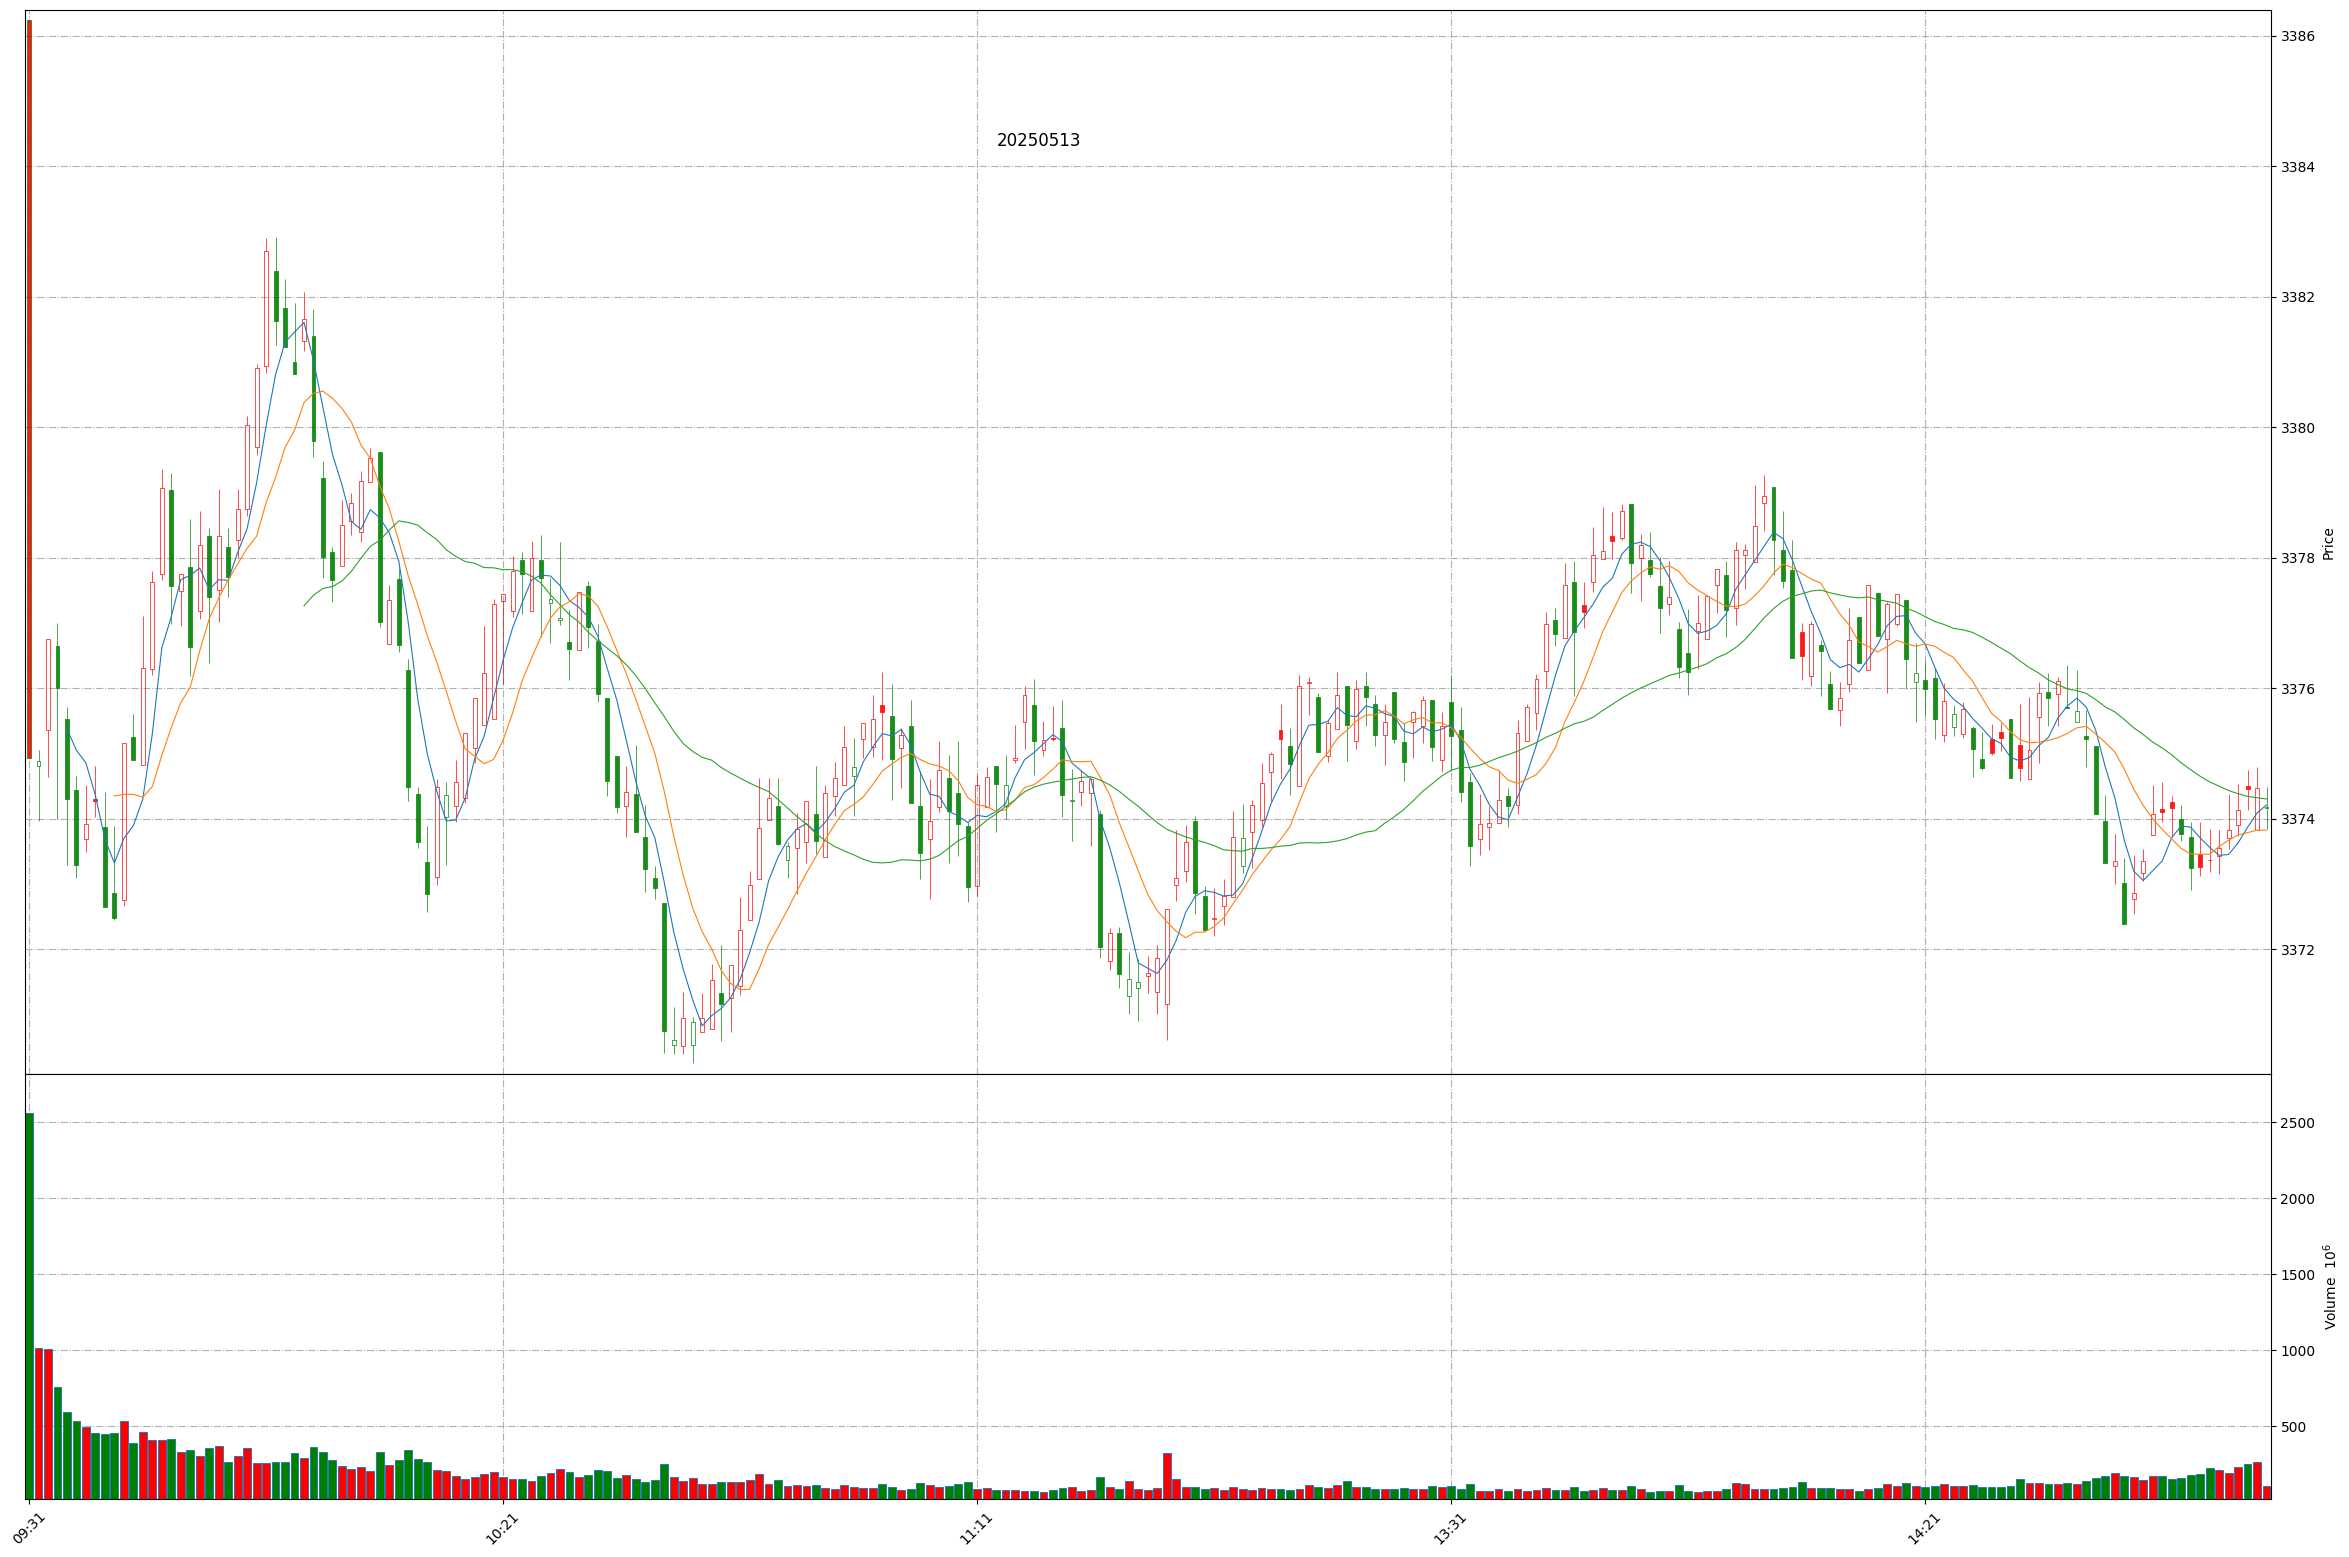
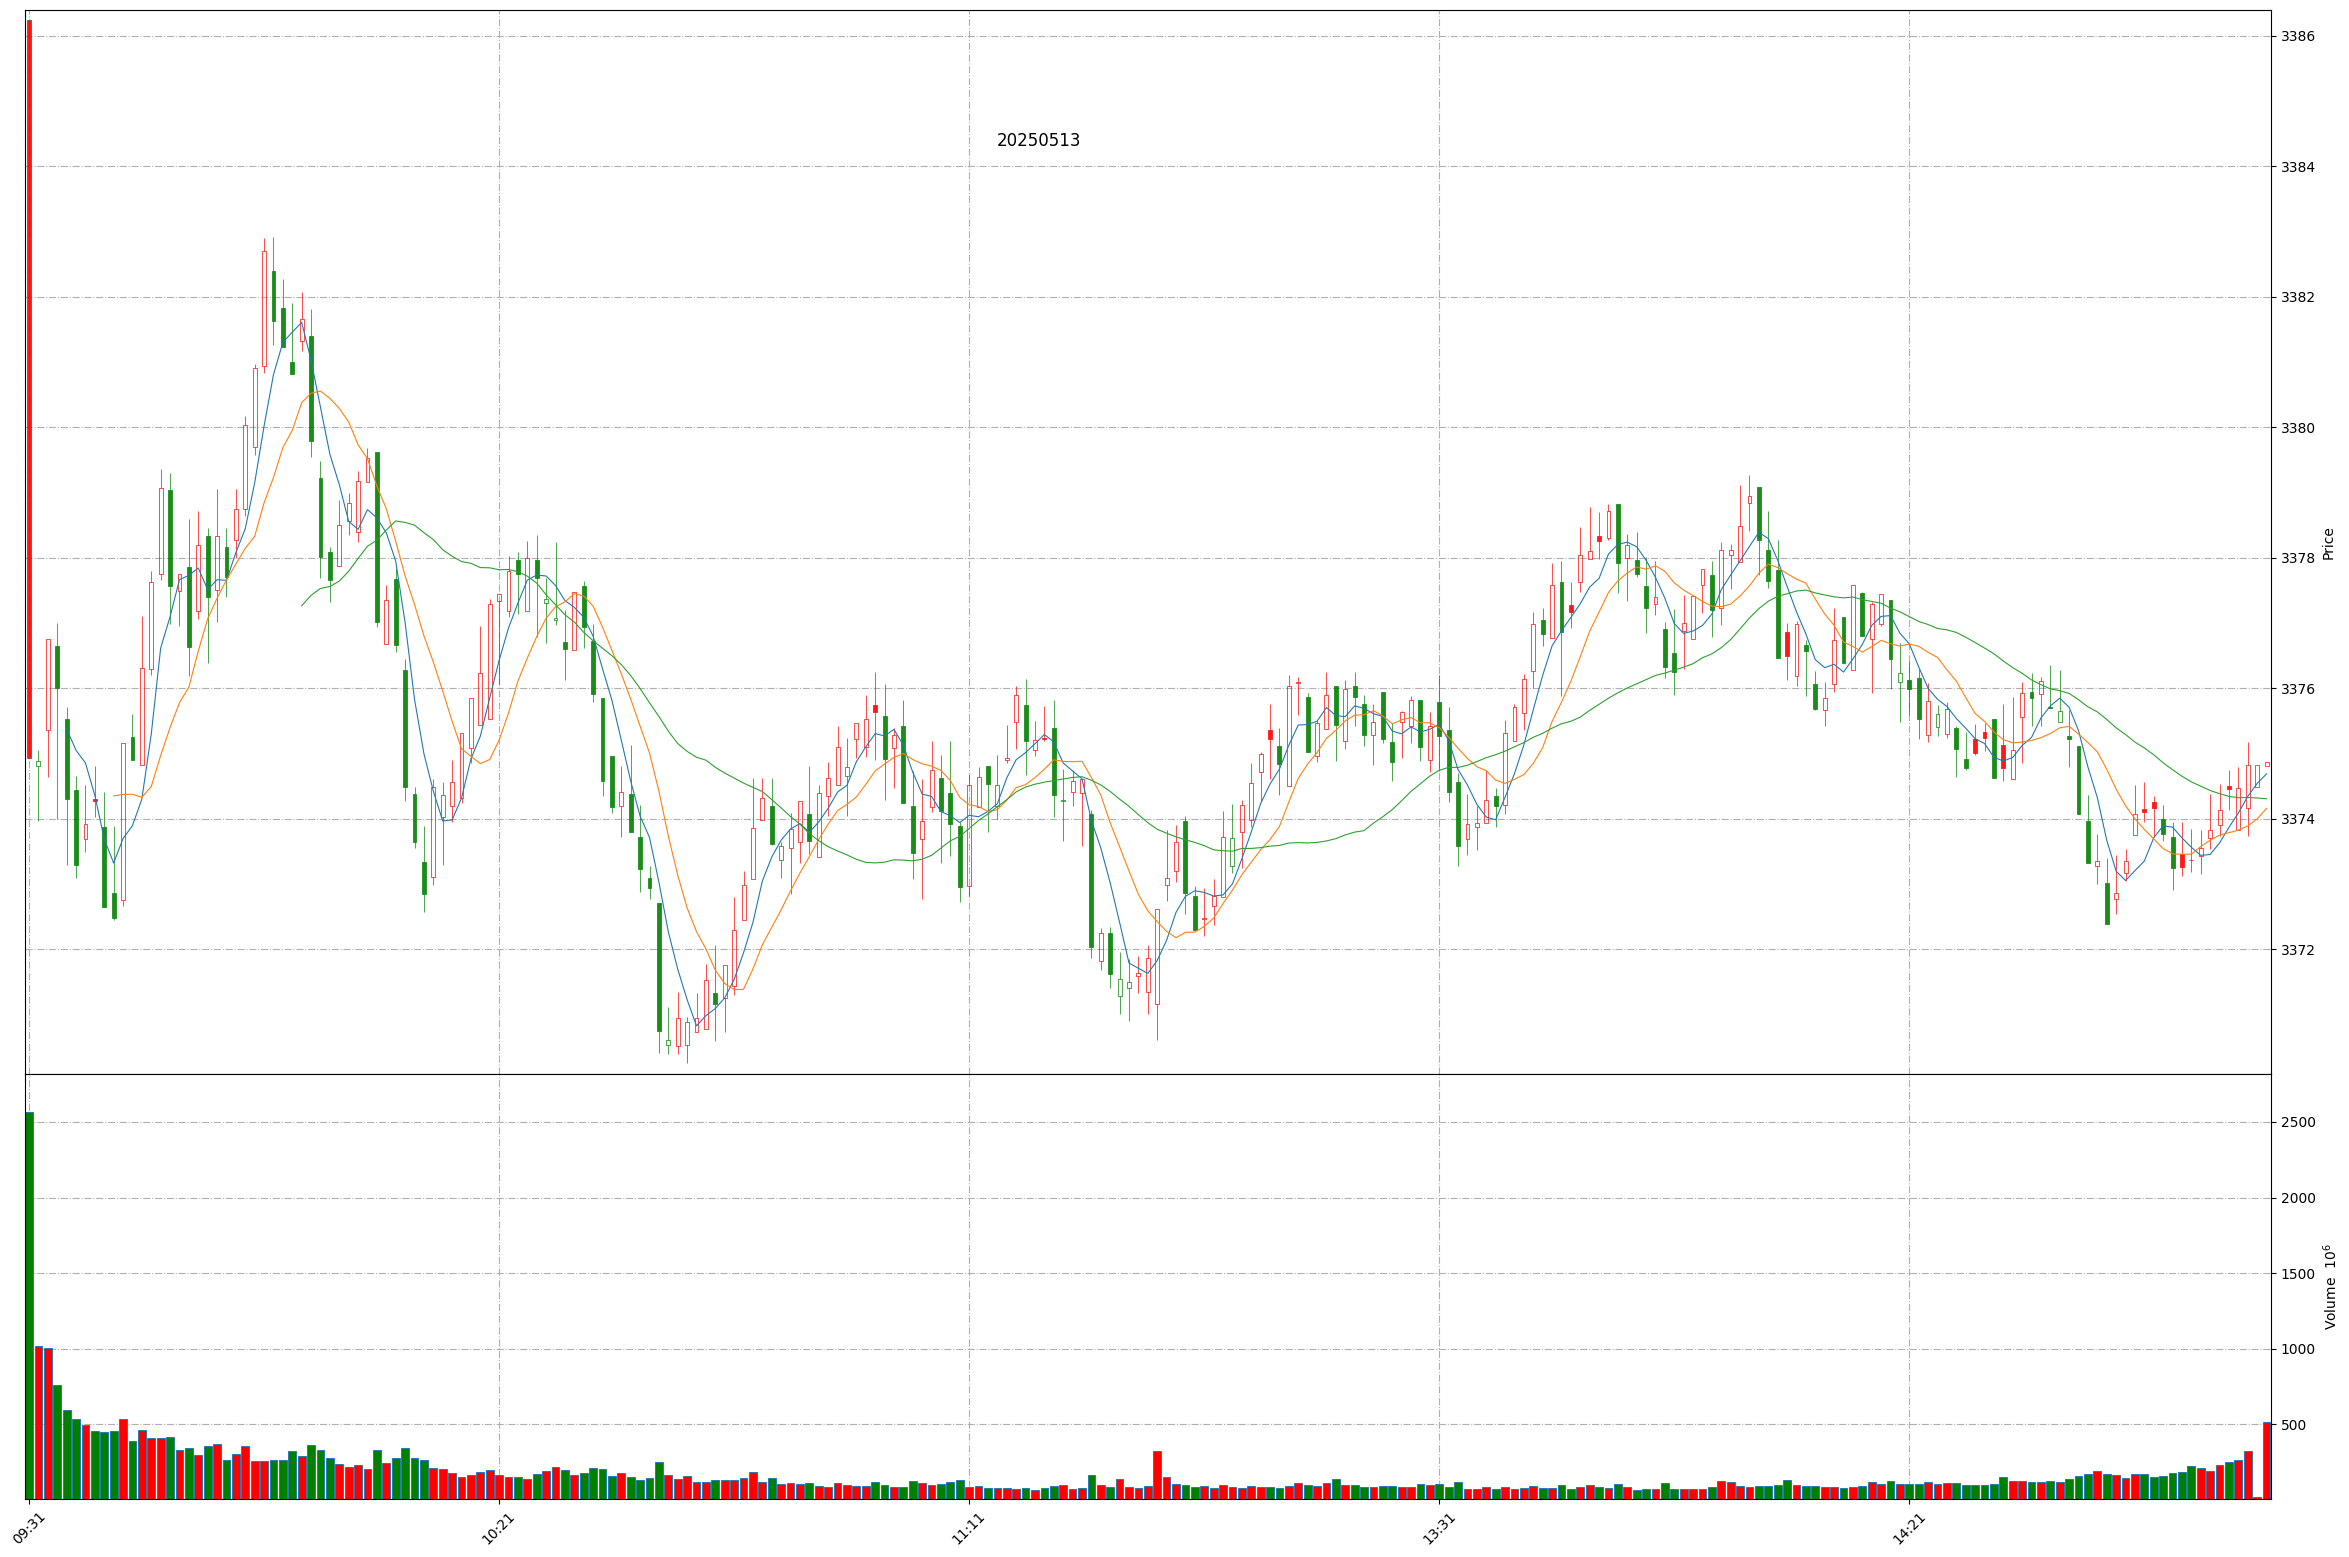
Github action update at 2025-05-13 15:14:49.

diff --git a/README.md b/README.md
@@ -1,11 +1,11 @@
 
 # Daily-A-share-market-quotes 每日 A 股指数（5min 更新）- 20250513
 
-### 上证指数 20250513 14:56
+### 上证指数 20250513 15:14
 ![](./fig/2025/5/20250513-sh000001.png)
 
-### 深证成指 20250513 14:56
+### 深证成指 20250513 15:14
 ![](./fig/2025/5/20250513-sz399001.png)
 
-### 北证50 20250513 14:56
+### 北证50 20250513 15:14
 ![](./fig/2025/5/20250513-bj899050.png)
